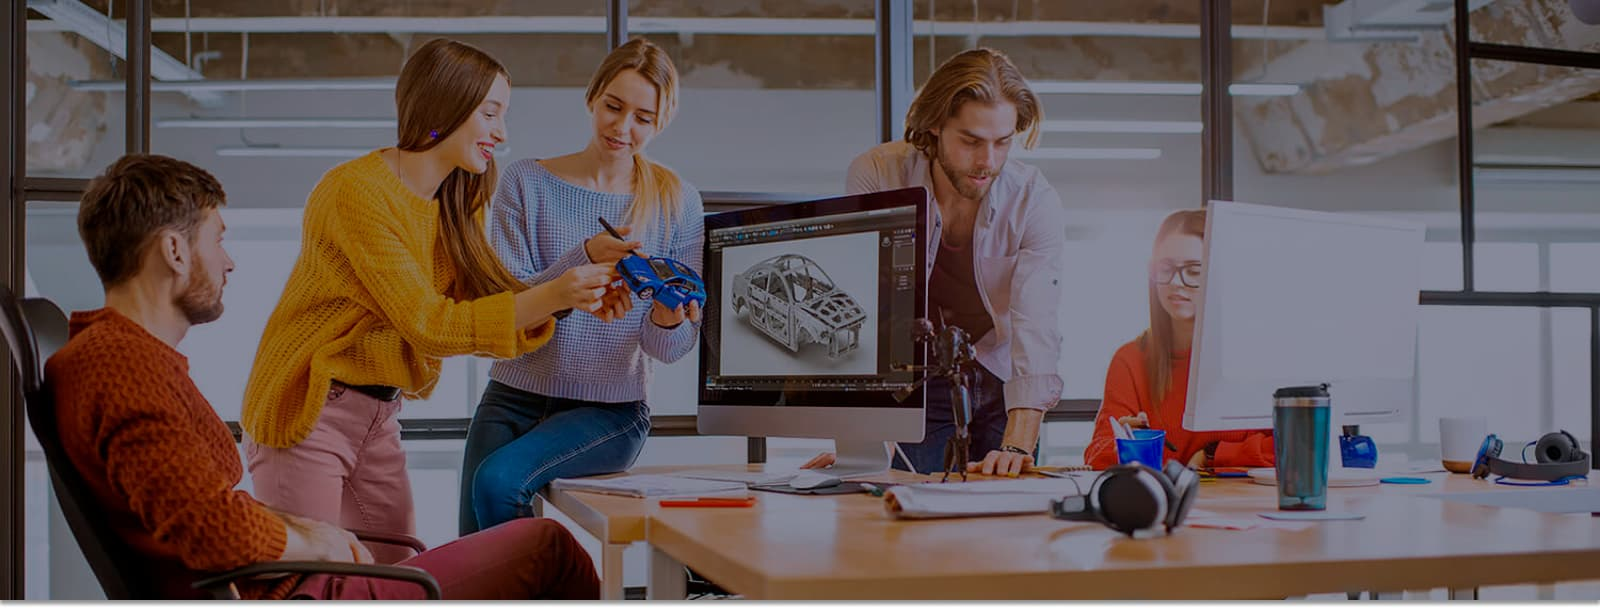
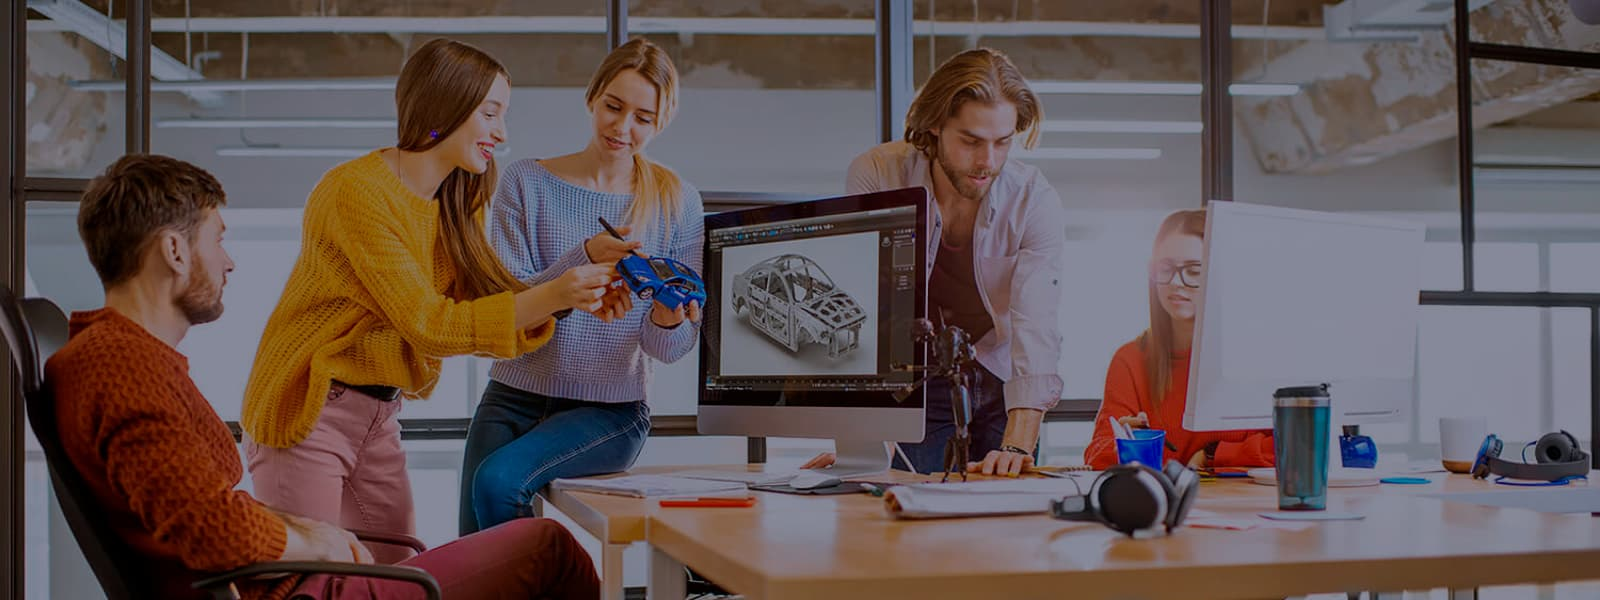
the end)

diff --git a/css/styles.css b/css/styles.css
@@ -160,8 +160,6 @@ img {
       rgba(47, 48, 58, 0.4)
     ),
     url(../image/hero/hero.jpg);
-  filter: drop-shadow(0px 4px 4px rgba(0, 0, 0, 0.25))
-    drop-shadow(0px 4px 4px rgba(0, 0, 0, 0.25));
   background-size: cover;
   background-position: center;
   max-width: 1600px;
@@ -261,9 +259,10 @@ img {
   margin-left: var(--card-set-gap);
   margin-top: var(--card-set-gap);
   flex-basis: calc(100% / 4 - var(--card-set-gap));
+  border-radius: 0px 0px 4px 4px;
   box-shadow: 0px 1px 3px rgba(0, 0, 0, 0.12), 0px 1px 1px rgba(0, 0, 0, 0.14),
     0px 2px 1px rgba(0, 0, 0, 0.2);
-  border-radius: 0px 0px 4px 4px;
+  background-color: var(--primary-white-color);
 }
 .command-name {
   margin-bottom: 10px;
@@ -284,8 +283,8 @@ img {
 }
 .command-list-subtitle {
   padding: 30px 32px;
-  background-color: var(--primary-white-color);
 }
+
 .social-list {
   display: flex;
 }
